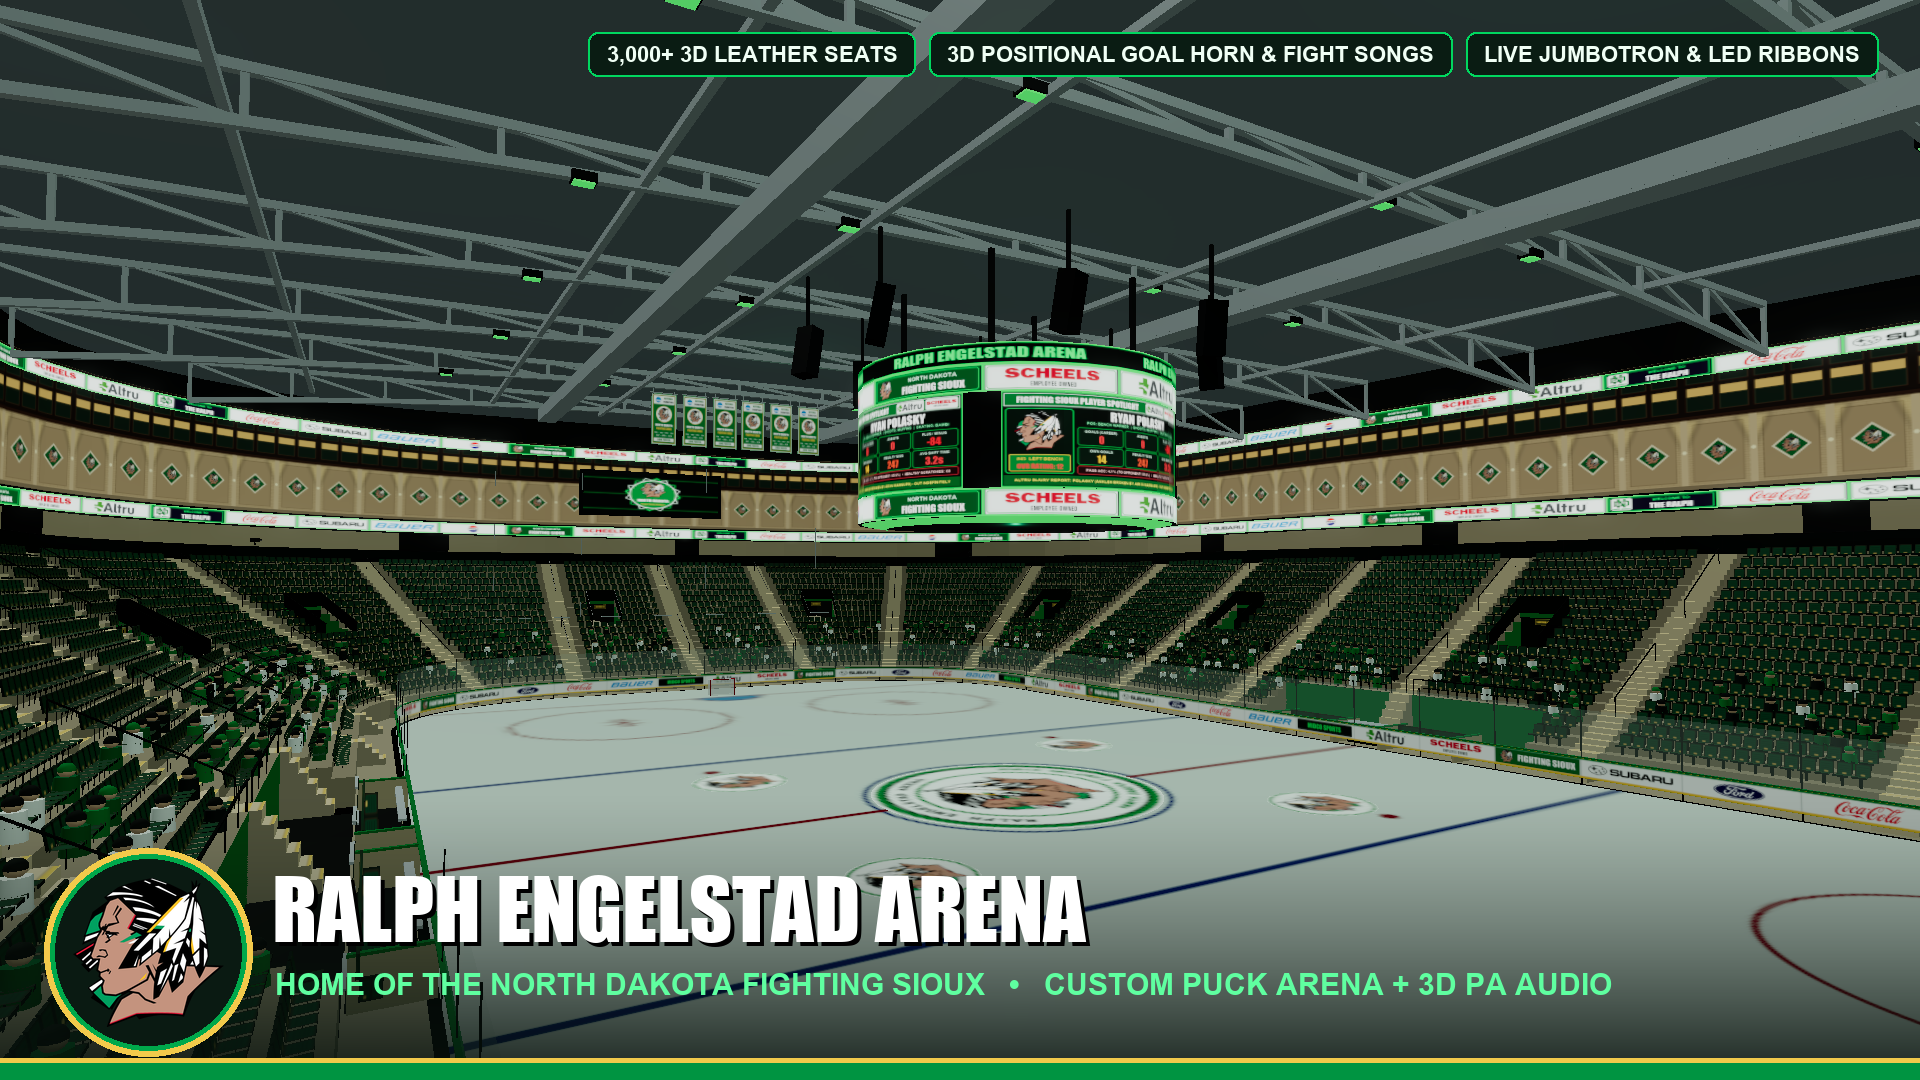
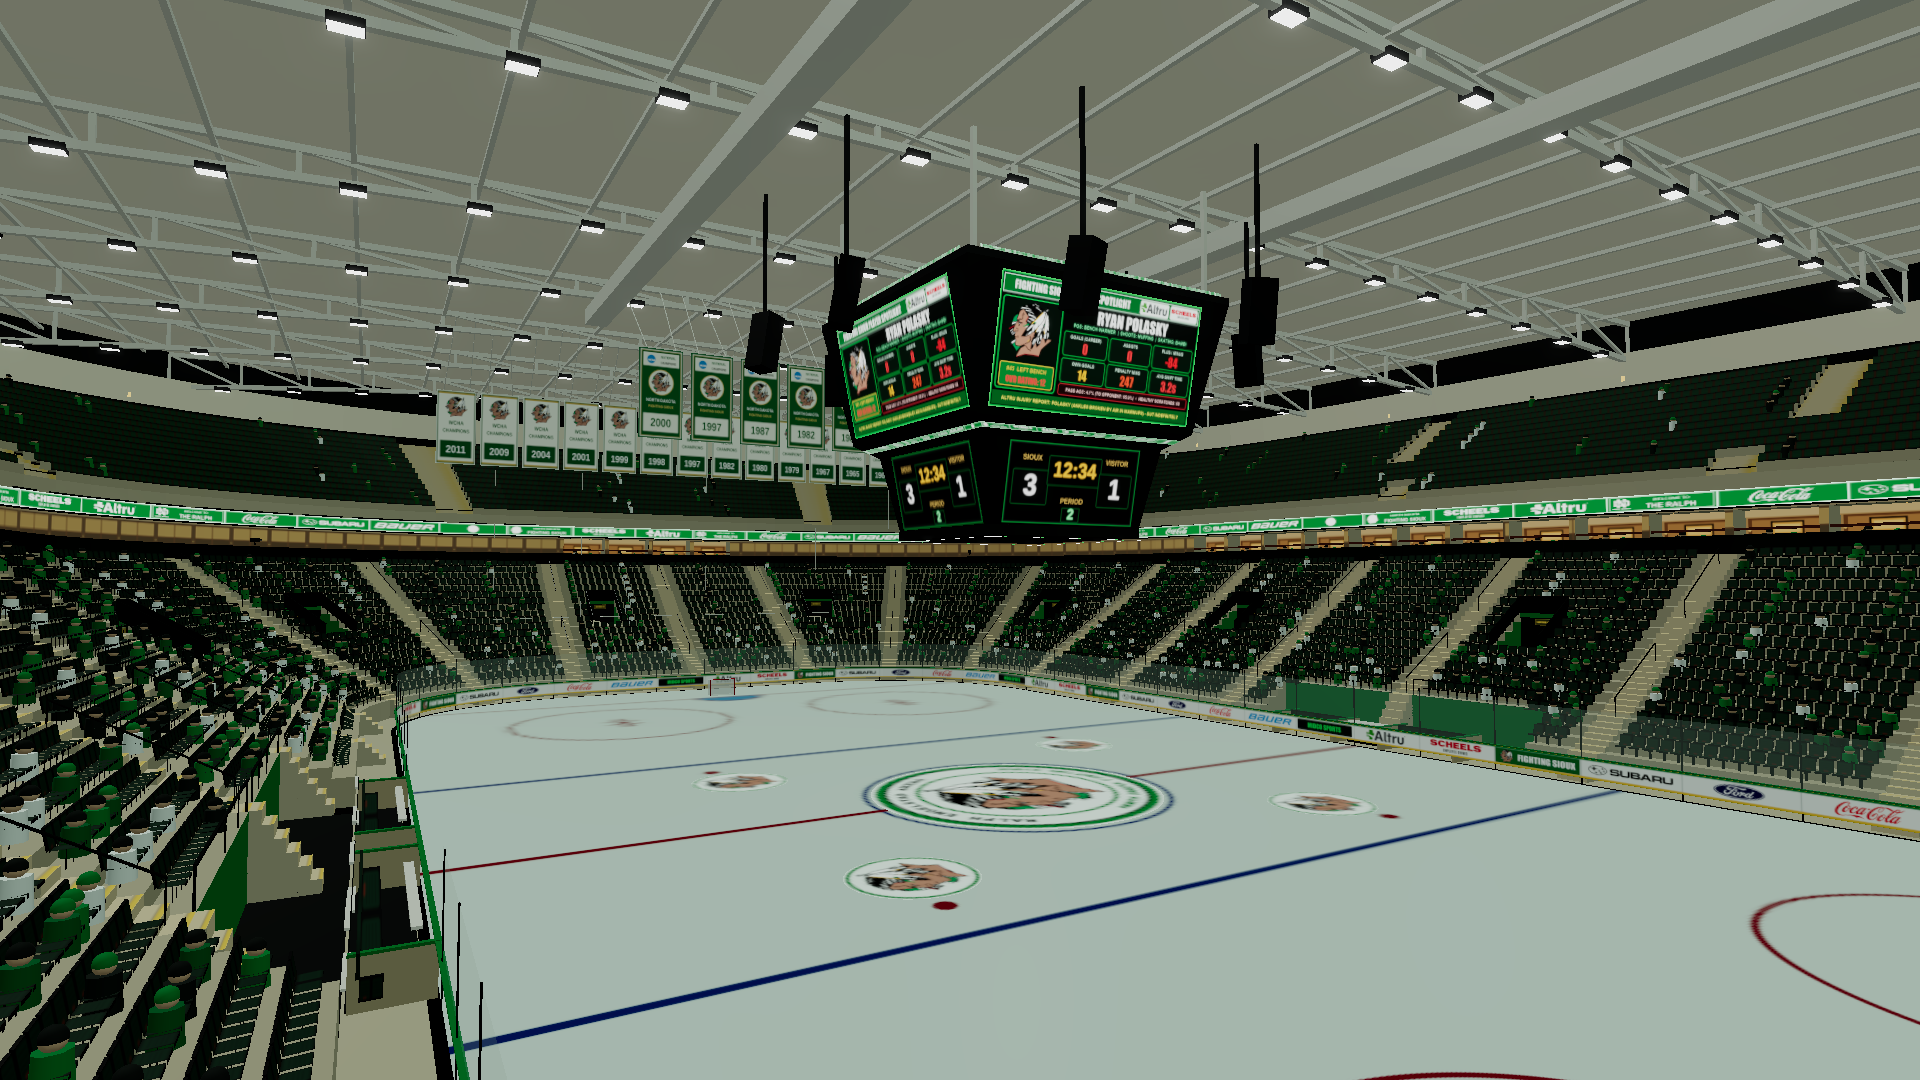
Regenerate marketing assets and add night preview

diff --git a/publish_workshop.py b/publish_workshop.py
@@ -6,6 +6,7 @@ CONTENT_DIR = 'C:/Projects/PuckREA/dist/Ralph Engelstad Arena'
 PREVIEW_IMG = 'C:/Projects/PuckREA/marketing/hero_thumbnail_small.jpg'
 EXTRA_SHOTS = [
     'C:/Projects/PuckREA/marketing/shot_1_bowl.jpg',
+    'C:/Projects/PuckREA/marketing/shot_1_bowl_night.jpg',
     'C:/Projects/PuckREA/marketing/shot_2_center_ice.jpg',
     'C:/Projects/PuckREA/marketing/shot_3_upper_deck.jpg',
     'C:/Projects/PuckREA/marketing/shot_4_endzone.jpg',

diff --git a/README.md b/README.md
@@ -10,6 +10,12 @@ championship banners, center-hung jumbotron, Sioux center-ice crest, and a
   <img src="marketing/showcase_hd.gif" alt="Ralph Engelstad Arena">
 </p>
 
+<p align="center">
+  <img src="marketing/night_showcase_hd.gif" alt="F11 night mode">
+  <br>
+  <em>F11 night mode</em>
+</p>
+
 [Subscribe on the Steam Workshop](https://steamcommunity.com/sharedfiles/filedetails/?id=3826743382)
 
 Requires [Arena Loader](https://steamcommunity.com/sharedfiles/filedetails/?id=3802863574).
